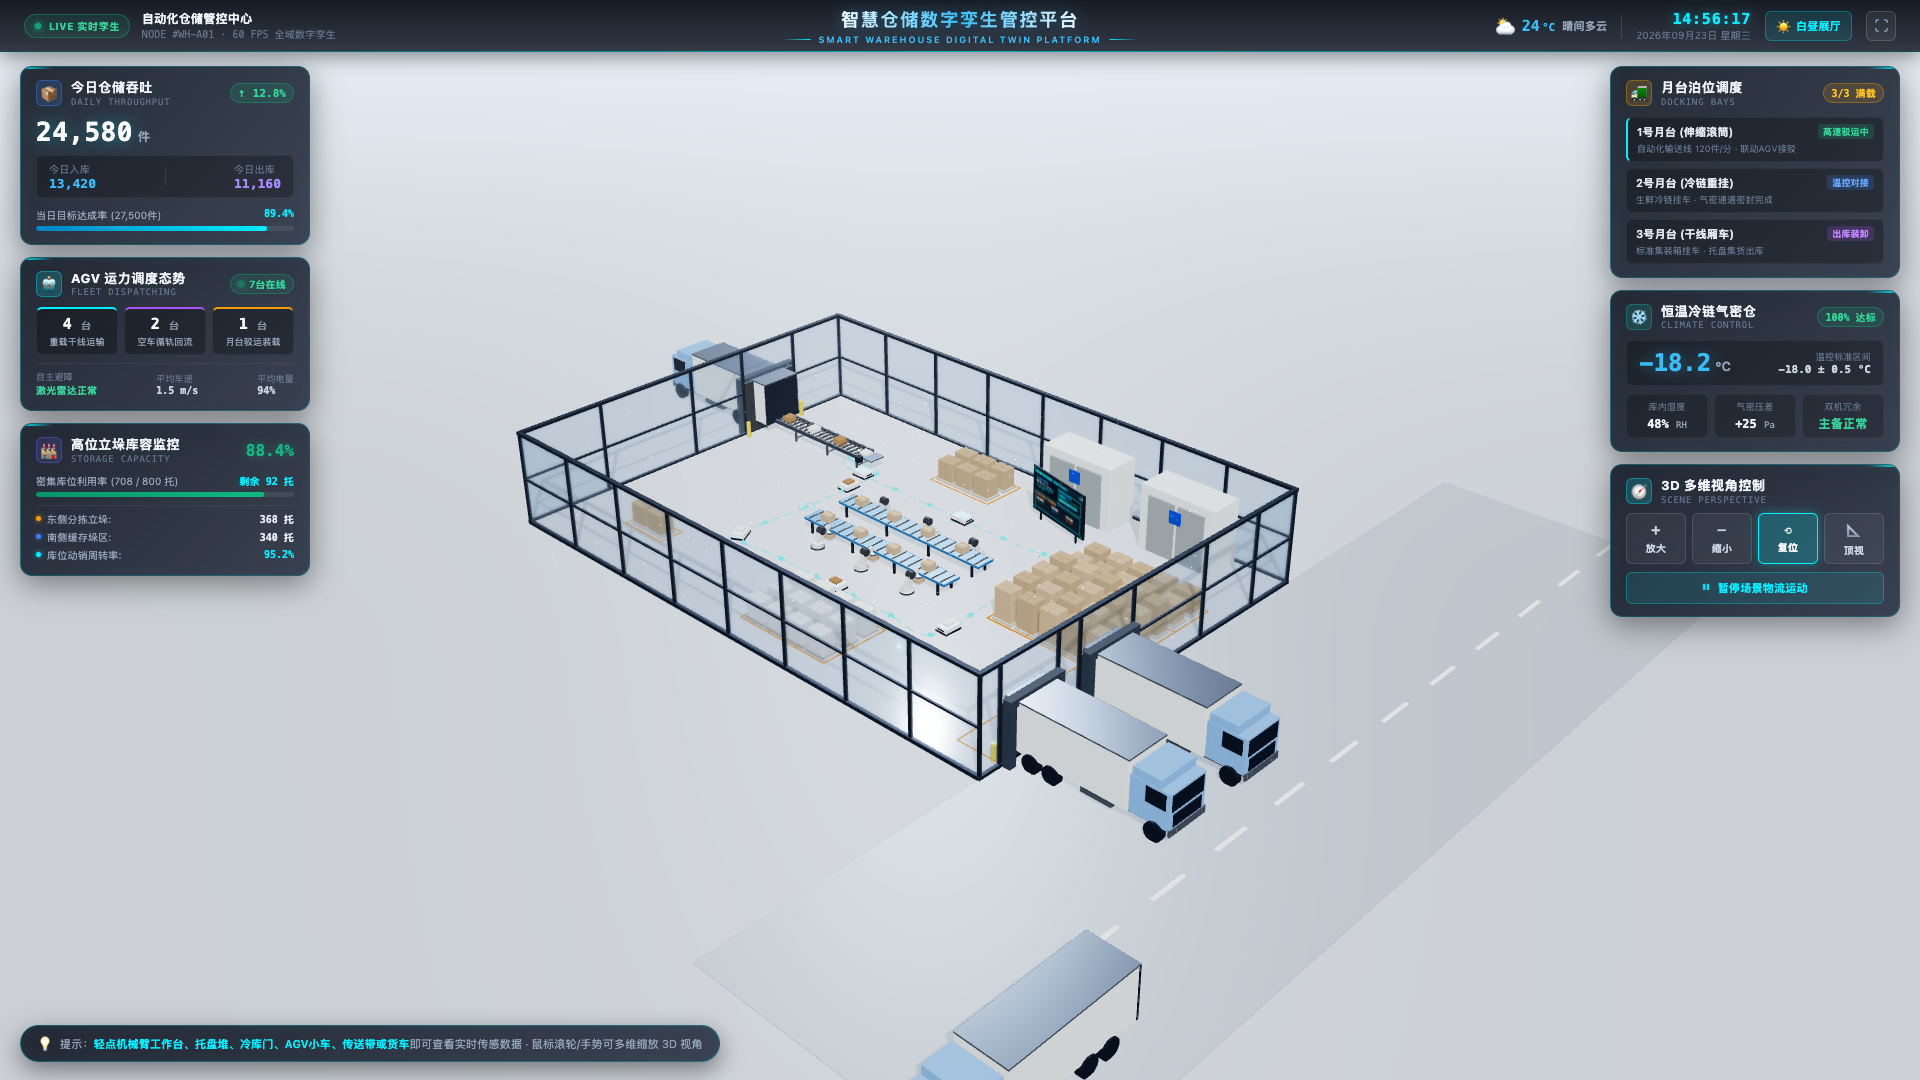
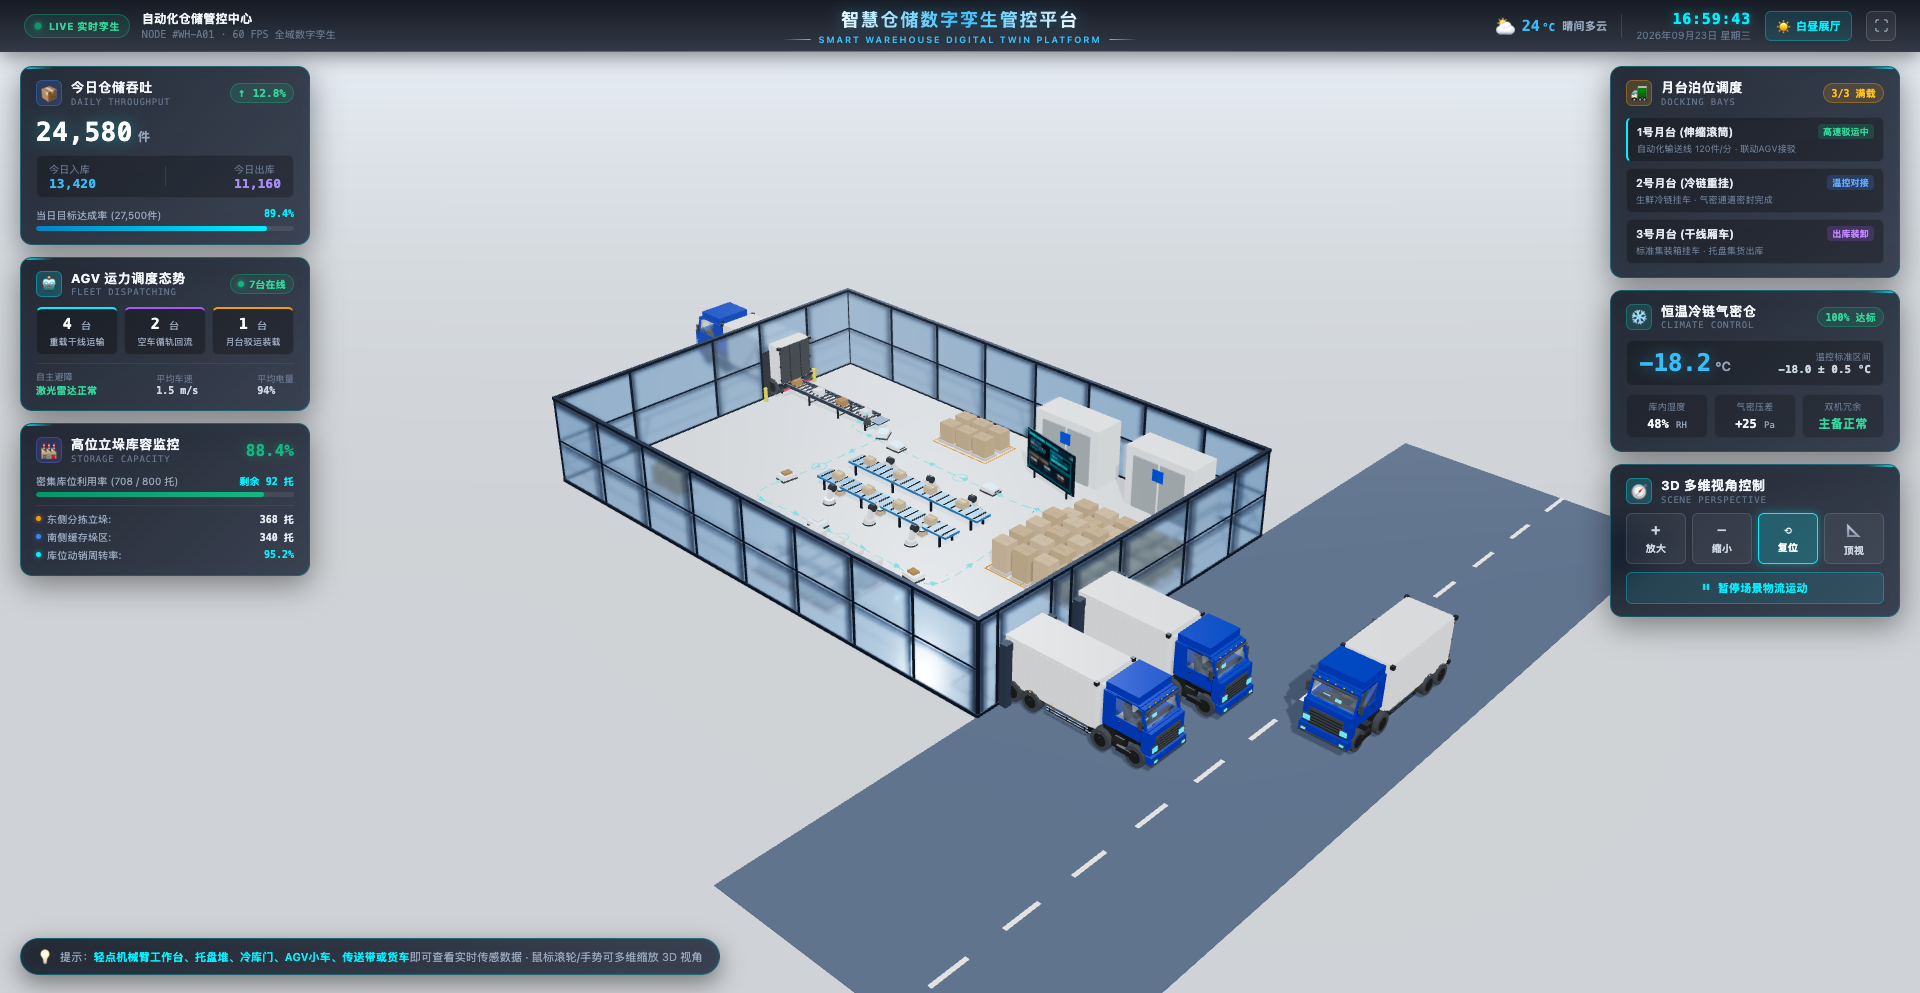
docs: streamline README with human-readable features, update showcase gallery, and remove Vercel deployment guide

Changed region(s): [[0.0, 0.0, 1.0, 1.0], [0.0, 0.9366, 0.375, 0.999]]

diff --git a/README.md b/README.md
@@ -1,7 +1,6 @@
 # 智慧仓储数字孪生平台 (smart-warehouse)
-> **Smart Warehouse Digital Twin Platform**
 
-[![Live Demo](https://img.shields.io/badge/Live_Demo-Vercel-success?style=for-the-badge&logo=vercel)](https://smart-warehouse-wine.vercel.app)
+[![Live Demo](https://img.shields.io/badge/Live_Demo-Online-success?style=for-the-badge&logo=vercel)](https://smart-warehouse-wine.vercel.app)
 [![Vue 3](https://img.shields.io/badge/Vue-3.5-42b883?style=for-the-badge&logo=vuedotjs)](https://vuejs.org/)
 [![Vite](https://img.shields.io/badge/Vite-5.4-646cff?style=for-the-badge&logo=vite)](https://vitejs.dev/)
 [![Three.js](https://img.shields.io/badge/Three.js-r169-black?style=for-the-badge&logo=threedotjs)](https://threejs.org/)
@@ -9,157 +8,123 @@
 [![Author: Xxcool](https://img.shields.io/badge/Author-Xxcool-181717?style=for-the-badge&logo=github)](https://github.com/Xxcool)
 [![License: MIT](https://img.shields.io/badge/License-MIT-yellow.svg?style=for-the-badge)](LICENSE)
 
-🔗 **公网在线体验地址 (Live Demo)**：[https://smart-warehouse-wine.vercel.app](https://smart-warehouse-wine.vercel.app)
+🔗 **在线体验地址**：[https://smart-warehouse-wine.vercel.app](https://smart-warehouse-wine.vercel.app)
 
 <div align="center">
   <img src="docs/images/15_cyber_digital_twin.png" alt="智慧仓储数字孪生管控大屏运行全景" width="100%" />
 </div>
 
-一个基于 **Vue 3 + Vite + TypeScript + Three.js** 与 **Blender 5.2.2 LTS 高精建模** 的现代化工业级 3D 智慧物流与冷链数字孪生管控大屏系统。支持全域赛博深空与白昼展厅双风格无损切换、工业级 5S 地面标线与 AGV 闭环物料搬运仿真。
+基于 **Vue 3 + Vite + TypeScript + Three.js** 构建的 3D 智慧仓储与物流数字孪生管控平台。直观还原现代化智能物流园区的运转实况，包括自动化 AGV 物料循环搬运、立体仓库出入库、冷链气密仓恒温监控以及月台货车装卸流程，支持科技夜景与明亮白昼双风格切换。
 
 ---
 
-## 📸 全景效果图集 (Showcase Gallery)
+## 📸 效果展示 (Showcase)
 
-| 🌙 赛博深空沉浸全息 (Cyber Immersion) | ☀ 白昼展厅沙盘模式 (Studio Day) |
+| 🌙 赛博夜景模式 | ☀ 白昼展厅模式 |
 | :---: | :---: |
-| ![赛博深空全景](docs/images/15_cyber_digital_twin.png) | ![白昼展厅沙盘](docs/images/11_studio_day_theme.png) |
+| ![赛博夜景全景](docs/images/15_cyber_digital_twin.png) | ![白昼展厅沙盘](docs/images/11_studio_day_theme.png) |
 
-| 🗺 顶视工程级标线与 AGV 激光轨迹 | 🛰 3D 实体微晶吸附感知卡片 |
+| 🚚 货车高透车窗与驾驶室内饰 | 🚛 清漆车身与防眩车灯细节 |
 | :---: | :---: |
-| ![顶视工程标线](docs/images/13_topview_fixed.png) | ![3D实体微晶感知卡片](docs/images/09_cyber_hud_with_popup.png) |
+| ![货车座舱内饰与高透车窗](docs/images/17_truck_cockpit_interior.png) | ![货车车身与车灯细节](docs/images/18_truck_pbr_clearcoat.png) |
 
-| 📺 室内自发光全息数据看板 (Holo Screen) | 🚀 全息数字孪生初始化控制舱 (Loading HUD) |
+| 📺 仓内自发光全息数据大屏 | 🛰 设备点击吸附卡片 |
 | :---: | :---: |
-| ![室内自发光全息数据大屏](docs/images/16_holo_screen_telemetry.png) | ![全息初始化控制舱](docs/images/14_loading_hud.png) |
+| ![室内自发光全息数据大屏](docs/images/16_holo_screen_telemetry.png) | ![设备点击吸附卡片](docs/images/09_cyber_hud_with_popup.png) |
 
 ---
 
-## 🌟 核心特性 (Key Features)
+## 🌟 核心功能 (Features)
 
-- **现代化前端与工业大屏架构**：
-  - 基于 **Vue 3 + Vite 5 + TypeScript** 全栈工程化，零运行时包袱，极速 HMR 热更新；
-  - 3D 渲染核心引擎与全息大屏 UI 组件解耦，左翼态势、右翼设备管控、顶部指挥条与三维画布模块化高内聚；
-  - 静态资源经 Vite 自动化按需分包优化（Three.js 核心分包独立）与强缓存配置。
-- **全域双视觉风格无损切换 (Dual-Theme Engine)**：
-  - **🌙 赛博深空全息模式**：通透深晶蓝高反光地坪（`#20324d`）、深晶黑环体厂房、高折射微晶玻璃、荧光青蓝激光导航光带与暗黑磨砂玻璃 HUD，带来极致工业沉浸感；
-  - **☀ 白昼展厅沙盘模式**：通透素雅浅灰展台地坪（`#e2e8f0`）、物理骨架明暗高反差，最大化突显设备机械结构；
-  - 支持顶部导航栏随时一键无损平滑切换，PBR 材质反射率与天光色温实时自适应联动。
-- **仓内自发光全息态势监控看板 (Holo Telemetry Monitor)**：
-  - 原位升级冷库正前方展示屏为 4.25m × 2.42m 高清自发光全息遥测大屏；
-  - 动态渲染 7 台 AGV 激光寻引精度折线波形、恒温冷库（-18.2℃）气密环境、高位立体库容与 3 大月台泊位实时联动状态；
-  - 采用双立柱工业级支架与微晶边框，配备独立定向发光与双模式材质自适应切换。
-- **全息工业级 HUD 态势监控体系**：
-  - **顶部指挥栏 (HeaderBar)**：52px 极简全息条，集成毫秒级跳动数字时钟、多维气象环境监测（温度、相对湿度、AQI 空气质量、风向）、全屏切换与双模式主题切换；
-  - **左翼态势 HUD (LeftTelemetryHud)**：今日仓储吞吐量进出库实时看板、7 台 AGV 运力调度多维状态、高位立体库容率；
-  - **右翼设备负荷与控制 HUD (RightEquipmentHud)**：三大月台泊位调度状态、恒温冷链气密仓遥测、3D 多维视角交互控制坞（放大/缩小/复位/顶视图/暂停物流动画）；
-  - **底部指引胶囊 (TipBar)**：深色微晶磨砂材质，清晰引导用户探索 3D 空间交互。
-- **AGV 真实装卸闭环物流体系**：
-  - **动态装卸闭环**：实现“伸缩辊道接驳装载 ➔ 货物颜色属性动态同步 ➔ 重载激光导引运送 ➔ 自动卸载至指定托盘/货架 ➔ 空车回流”的闭环作业流；
-  - **货物属性一致性**：伸缩辊道上的多彩箱件装车时色彩实时映射至 AGV 载荷，彻底解决“变色/错乱”问题；
-  - **智能避障与对齐**：7 台 AGV 均具备实时切线航向自动对齐、动态差速过弯与空间避碰。
-- **工业级 5S 货区标线与平滑激光轨迹**：
-  - **工业 5S 货物存储区**：采用安全警示琥珀黄（`#f59e0b`）精确标注东侧托盘区、南侧高位库、月台缓冲区与入库接驳箱框，彻底消除历史遗留杂乱斜线；
-  - **1.2m 平滑倒角激光引导线**：双层超导底带 + 青蓝荧光中心发光线 + 运行方向动态箭头 + 站点环形停靠光圈，符合现代智能自动化工厂规范。
-- **全息数字孪生初始化控制舱 (Loading HUD)**：
-  - 双环逆向旋转全息雷达激光扫描；
-  - 几何拓扑解构、闭环状态机装配、全息 HUD 挂载三阶段动态实时遥测；
-  - 极速完成握手后毫秒级平滑淡出，初始入场 100% 纯净无遮挡，按需呼出设备卡片。
-- **专业级交互与空间吸附微晶弹窗 (AnchoredPopup)**：
-  - **3D-to-2D 空间态势投影**：轻点场景内 AGV、机械臂、托盘垛、冷库门或货车即刻吸附呼出微晶传感卡片；
-  - **视口自适应弹性防越界**：具备上下智能翻转与左右边缘弹性钳夹算法，确保在任何分辨率与视口下绝不溢出屏幕；
-  - **纯 WebGL 相机 Dolly 缩放**：拦截浏览器默认 Page Zoom，缩放独占作用于 3D 摄像机视轴，大屏 UI 保持固定视网膜级清晰度。
+- **🌓 双视觉主题无损切换**：
+  - **赛博深空模式**：通透深晶蓝地坪搭配青蓝激光导引线与荧光指示，营造浓厚的未来工业科技感；
+  - **白昼展厅模式**：明亮素雅的浅灰沙盘展台质感，清晰呈现设备机械轮廓与建筑空间结构；
+  - 顶部导航栏支持一键无感切换，灯光色温与地坪材质自动平滑适配。
+
+- **🤖 自动化 AGV 闭环物料搬运**：
+  - 多台 AGV 循迹小车沿地面导向线有序运转，模拟流水线取货、重载运输、立库卸货与空车回流的完整搬运闭环；
+  - 箱件在转运过程中保持颜色与属性的一致性，各车自适应过弯与防碰。
+
+- **🚚 工业货车与座舱细节透视**：
+  - 货车挡风玻璃与车窗采用透明物理玻璃质感，可透过车窗清晰看清内部方向盘、中控液晶屏与座椅等座舱内饰；
+  - 大灯、雾灯与车顶示宽小灯均经过防频闪优化，在远近各种视角及车辆行驶中始终稳定明亮；
+  - 外部公路采用自然真实的工业深灰沥青色，与库区地坪层次分明。
+
+- **📊 仓内全息遥测大屏**：
+  - 仓库内醒目位置竖立自发光全息大屏，动态呈现 AGV 运行轨迹波形、恒温冷库指标（-18.2℃）、月台泊位状态及实时吞吐率。
+
+- **🖥 业务监控面板 (HUD)**：
+  - **顶栏**：集成动态时钟、天气温湿度监控与全屏切换；
+  - **左侧态势栏**：展示今日仓储吞吐、AGV 运行调度与高位货架利用率；
+  - **右侧控制栏**：实时监控 3 大装卸月台泊位与冷库状态，提供 3D 视角控制坞（放大、缩小、复位、顶视、暂停/继续动画）。
+
+- **🔍 智能交互与平滑运镜**：
+  - 点击场景中的任意设备（货车、AGV、传送带、机械臂、托盘垛等），摄像机镜头会自动平滑由远及近推送到目标上方；
+  - 伴随吸附式信息弹窗展示该设备的实时运行参数，点击场景任意空白处可平滑退出并继续自由漫游。
 
 ---
 
 ## 🛠 技术栈 (Tech Stack)
 
-* **应用框架**：Vue 3 (`Composition API`, `<script setup>`)
+* **核心框架**：Vue 3 (`Composition API`, `<script setup>`)
 * **构建工具**：Vite 5
-* **编程语言**：TypeScript 5
-* **三维渲染引擎**：Three.js (`WebGLRenderer`, `PerspectiveCamera`, `OrbitControls`)
-* **模型资产构建**：Blender 5.2.2 LTS (PBR 材质、GLTF 2.0 规范，全场景优化至 1.8 MB)
-* **部署平台**：Vercel (原生 Vite 支持 + 静态资源强缓存路由优化)
+* **开发语言**：TypeScript 5
+* **三维引擎**：Three.js (`WebGLRenderer`, `PerspectiveCamera`, `OrbitControls`)
+* **三维建模**：Blender 5.2.2 LTS (PBR 材质、GLTF 2.0 规范导出)
 
 ---
 
-## 📁 目录结构 (Directory Structure)
+## 📁 项目结构 (Project Structure)
 
 ```text
 smart-warehouse/
-├── docs/                          # 场景设计、架构规范与高清效果图集
-│   ├── ARCHITECTURE.md            # Three.js 场景管理器与性能优化架构规范
-│   └── images/                    # 全屏态势效果图与运行演示图
+├── docs/                          # 设计说明与高清效果图集
 ├── public/
-│   ├── smart_warehouse.glb        # Blender 高精三维孪生模型 (~1.8 MB)
+│   ├── smart_warehouse.glb        # 3D 核心仓储数字孪生模型文件
 │   └── models/
 ├── src/
-│   ├── components/
-│   │   ├── HeaderBar.vue          # 数字化指挥中心 52px 顶栏与实时气象时钟
-│   │   ├── LeftTelemetryHud.vue   # 左侧：全息运营态势监控 HUD (吞吐/调度/库容)
-│   │   ├── RightEquipmentHud.vue  # 右侧：设施负荷监控 + 3D 视角多维控制坞 HUD
-│   │   ├── AnchoredPopup.vue      # 3D 实体吸附与自适应防越界微晶弹窗
-│   │   ├── LoadingOverlay.vue     # 全息数字孪生初始化控制舱与三阶段遥测
-│   │   └── TipBar.vue             # 底部操作提示栏
+│   ├── components/                # 工业大屏各业务 HUD 组件与弹窗
 │   ├── core/
-│   │   ├── WarehouseScene.ts      # Three.js 核心场景引擎、双主题渲染、动画驱动与事件调度
-│   │   └── constants.ts           # 场景业务数据字典与指标配置
-│   ├── types/
-│   │   └── warehouse.ts           # TypeScript 领域类型声明
-│   ├── App.vue                    # 应用根组件 (HUD 组合与视口监听)
-│   ├── main.ts                    # 应用入口
-│   └── vite-env.d.ts
-├── index.html                     # 根 HTML 模板
-├── package.json                   # 依赖与脚本
-├── tsconfig.json                  # TypeScript 编译配置
-├── vite.config.ts                 # Vite 构建配置
-├── vercel.json                    # Vercel 部署路由与 GLB 缓存配置
+│   │   ├── WarehouseScene.ts      # Three.js 核心场景管理器与渲染驱动
+│   │   └── constants.ts           # 场景业务指标与设备数据字典
+│   ├── types/                     # TypeScript 类型定义
+│   ├── App.vue                    # 主界面与 3D 画布容器
+│   └── main.ts                    # 入口文件
+├── index.html                     # 页面 HTML
+├── package.json                   # 项目依赖配置
 └── README.md                      # 项目说明文档
 ```
 
 ---
 
-## 🚀 本地快速启动 (Local Development)
+## 🚀 本地运行 (Quick Start)
 
 ```bash
-# 1. 克隆并进入项目目录
+# 1. 克隆代码仓库
 git clone https://github.com/Xxcool/smart-warehouse.git
 cd smart-warehouse
 
-# 2. 安装依赖
+# 2. 安装项目依赖
 npm install # 或 pnpm install
 
-# 3. 启动开发服务器 (默认端口 8088)
+# 3. 启动本地开发服务 (默认端口 8088)
 npm run dev
 
 # 4. 构建生产产物
 npm run build
-
-# 5. 本地预览生产构建
-npm run preview
 ```
 
 ---
 
-## ☁ Vercel 一键部署 (Vercel Deployment)
+## ⌨ 常用快捷键 (Shortcuts)
 
-本项目已配置标准 `vercel.json`，构建命令自动指向 `npm run build`，输出目录为 `dist`：
-1. 推送代码至 GitHub 仓库；
-2. 登录 [Vercel](https://vercel.com/)，点击 **「Add New...」 -> 「Project」**；
-3. 选择导入 GitHub 仓库 **`smart-warehouse`**；
-4. Vercel 将自动识别 Vite 框架，点击 **「Deploy」** 即可一键完成全自动化构建部署！
-
----
-
-## ⌨ 键盘快捷键 (Shortcuts)
-
-| 按键 | 功能说明 |
+| 按键 | 说明 |
 | :--- | :--- |
-| `+` / `=` | 拉近相机视角 (Zoom In) |
-| `-` | 拉远相机视角 (Zoom Out) |
-| `0` / `R` | 复位为标准等轴测默认视角 (Reset View) |
+| `+` / `=` | 拉近视角 (Zoom In) |
+| `-` | 拉远视角 (Zoom Out) |
+| `0` / `R` | 复位为默认等轴测视角 (Reset View) |
 | `T` | 切换为垂直平面俯瞰视角 (Top View) |
-| `Space` (空格) | 暂停 / 恢复场景内所有物流运动动画 |
+| `Space` (空格) | 暂停 / 继续场景内物流运动动画 |
 
 ---
 
@@ -169,6 +134,6 @@ npm run preview
 
 ---
 
-## 📄 开源许可证 (License)
+## 📄 开源许可 (License)
 
 本项目遵循 [MIT License](LICENSE) 开源协议。
